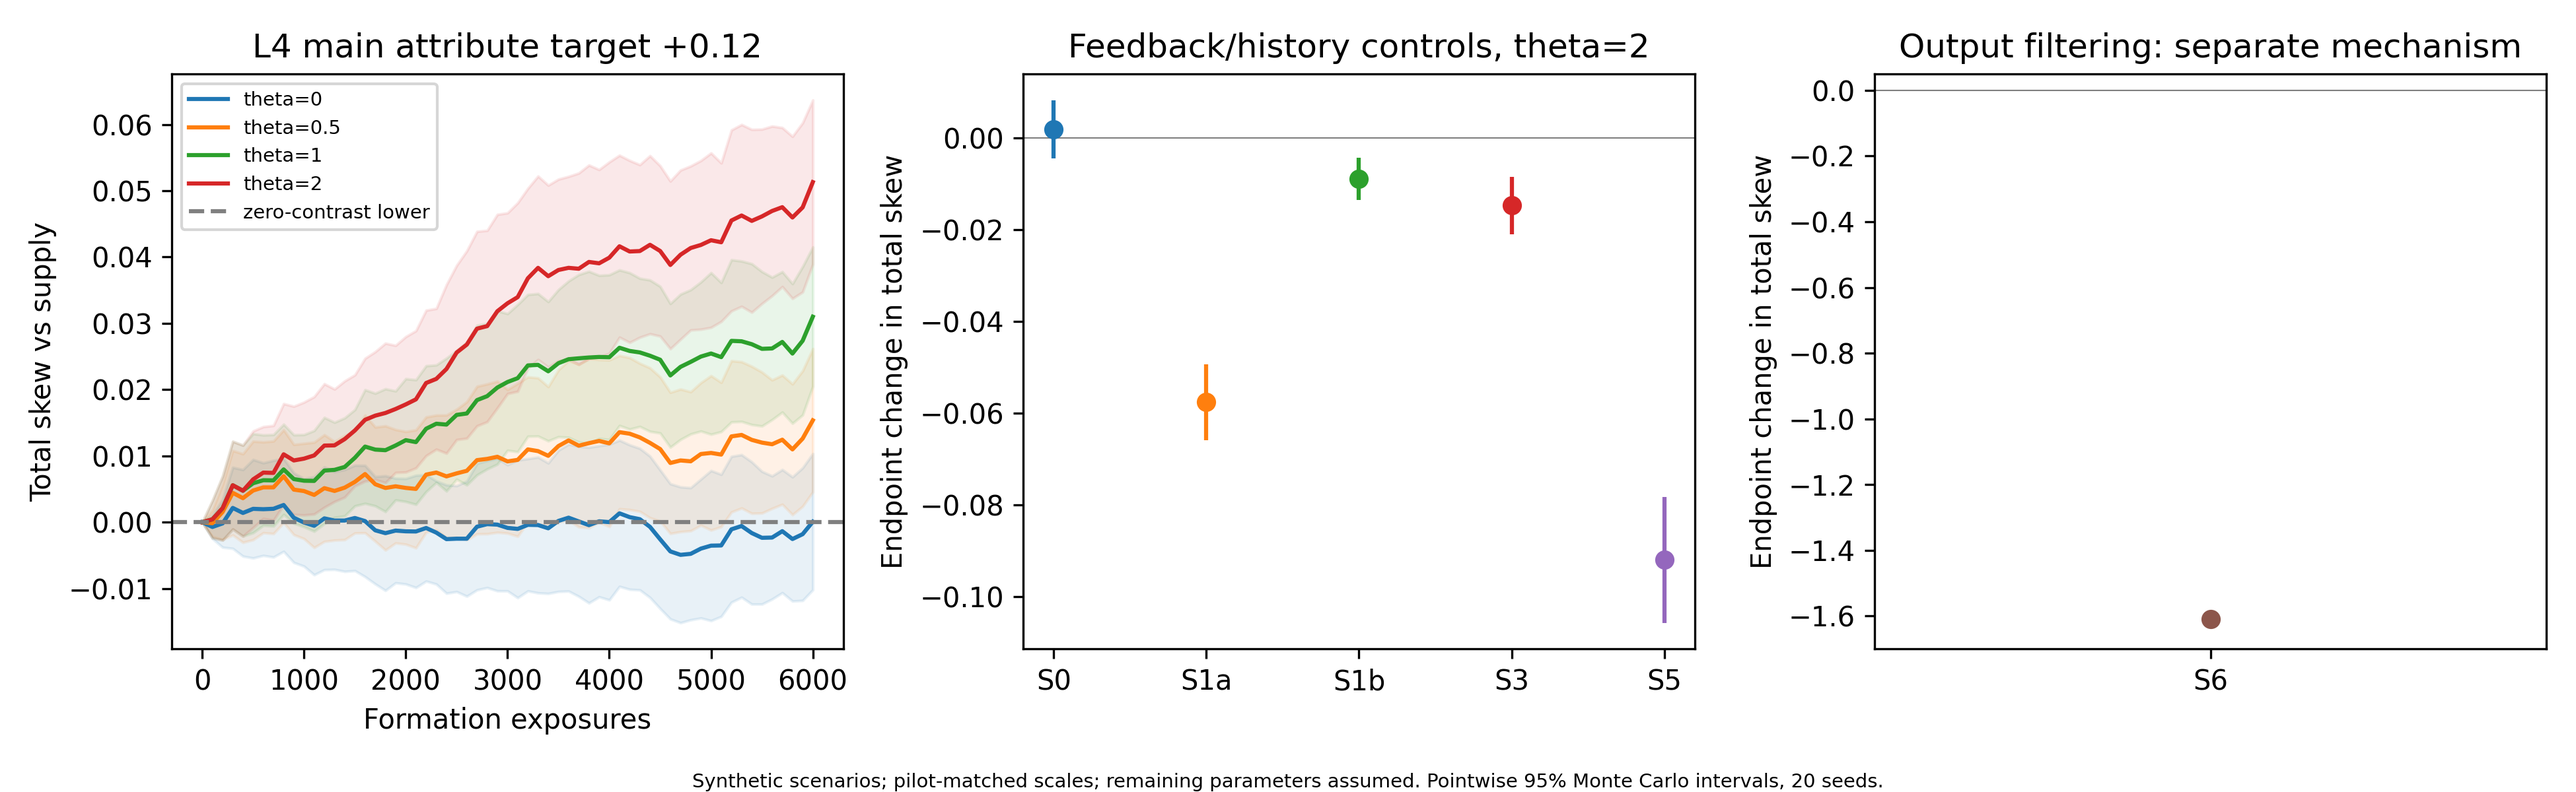
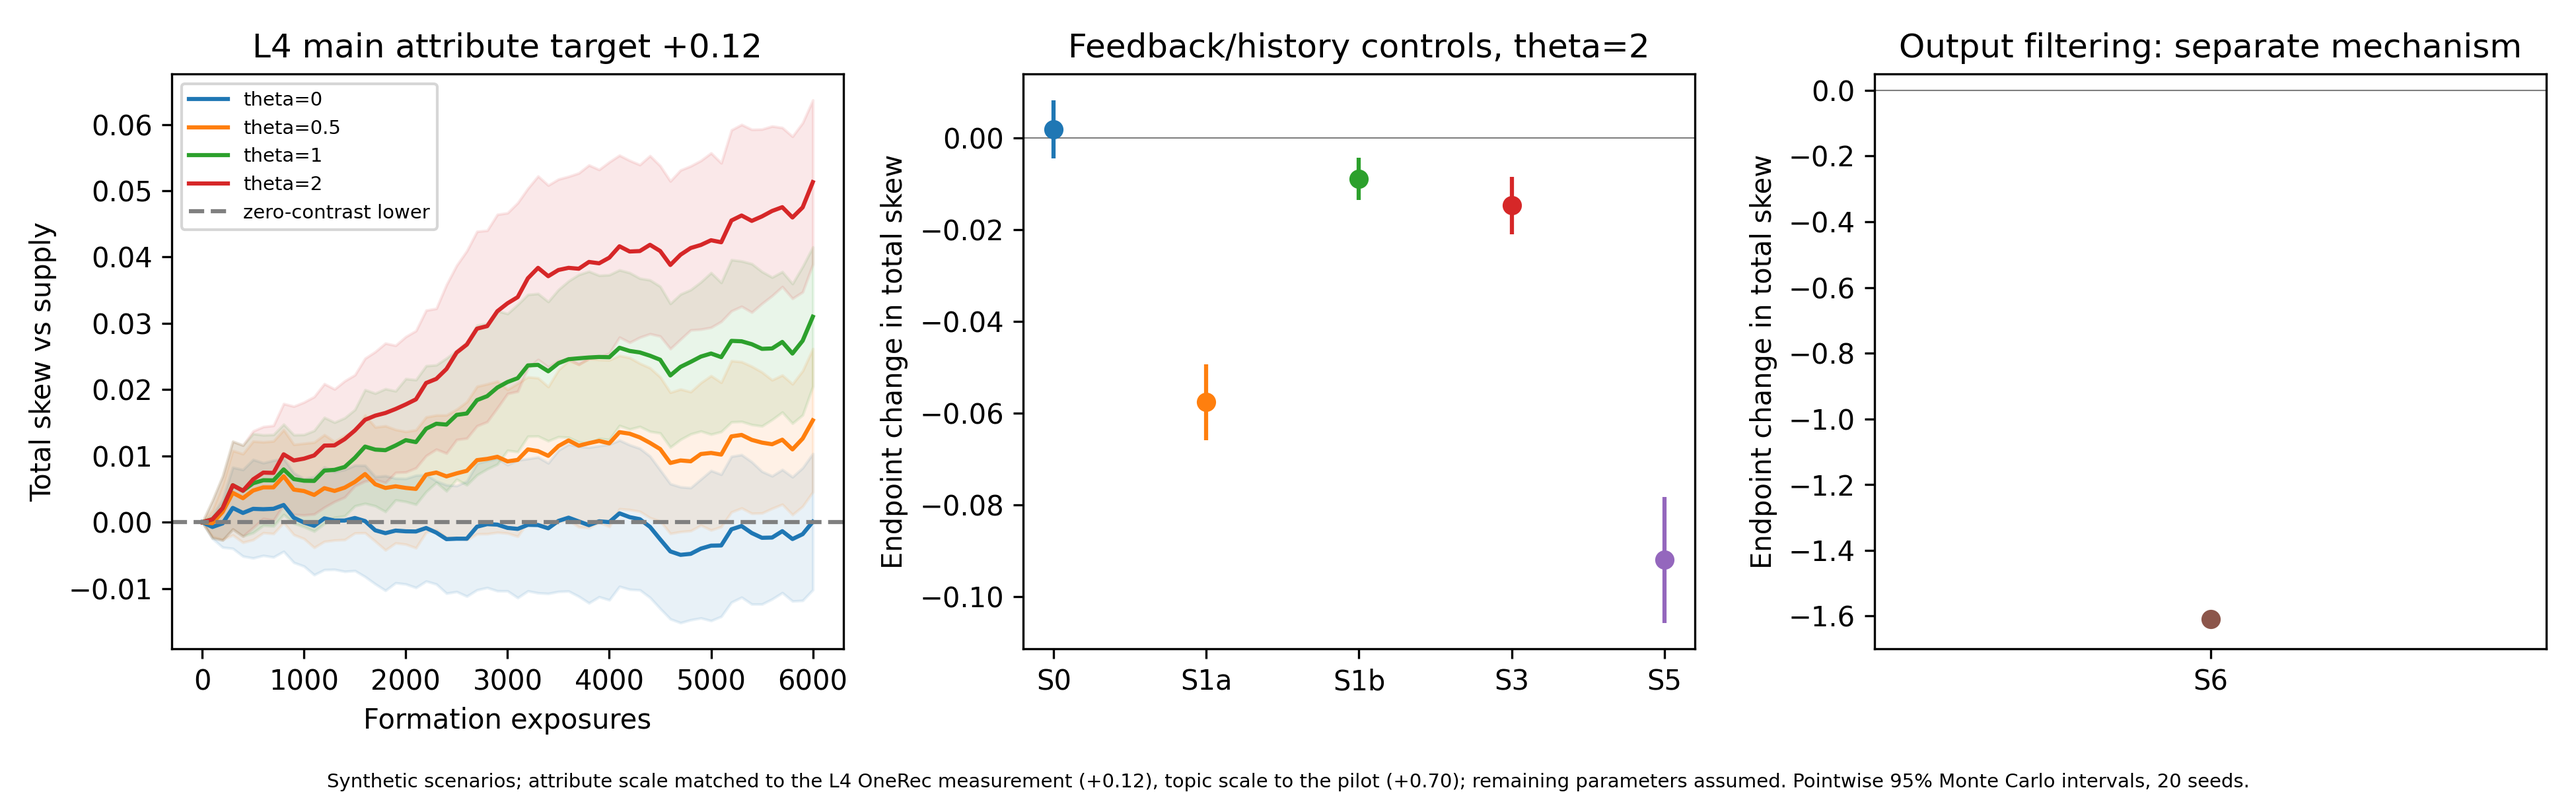
Fix Figure 5.1 footnote (L4-matched attribute scale) and verify section 5.2 numbers
The shared figure helper gains an optional footnote whose default is unchanged, so the
upper-scenario figures keep theirs. Rerunning l4_main.py reproduces the committed results
(max difference 2e-17), so the data files are left as they were.

Claude-Session: https://claude.ai/code/session_01M8HfKmEQJqJL5ZQudirT18

Changed region(s): [[0.1241, 0.9558, 0.8687, 1.0]]

diff --git a/analysis/v6_simulation/l4_main.py b/analysis/v6_simulation/l4_main.py
@@ -88,7 +88,8 @@ def run():
     axes[1].axhline(0,color='grey',lw=.5)
     axes[2].set(xticks=[0],xticklabels=['S6'],ylabel='Endpoint change in total skew',title='Output filtering: separate mechanism',ylim=(-1.7,.05))
     axes[2].axhline(0,color='grey',lw=.5)
-    fig('l4_main',details,['l4_main.py','calibrated_model.py','calibrated_run.py','revised_common.py'])
+    fig('l4_main',details,['l4_main.py','calibrated_model.py','calibrated_run.py','revised_common.py'],
+        note='Synthetic scenarios; attribute scale matched to the L4 OneRec measurement (+0.12), topic scale to the pilot (+0.70); remaining parameters assumed. Pointwise 95% Monte Carlo intervals, 20 seeds.')
     for r in cal:print(r)
     for r in summary:
         if r['theta']==2 and ((r['scenario']=='L4_main' and r['step'] in (FORM,ACTIVE)) or (r['scenario']=='zero_lower' and r['strategy']=='formation')):print(r)

diff --git a/analysis/v6_simulation/revised_common.py b/analysis/v6_simulation/revised_common.py
@@ -26,8 +26,8 @@ def meta(name,details,scripts):
         (BASE/folder/f'{name}.meta.json').write_text(json.dumps(data,indent=2),encoding='utf8')
 
 
-def fig(name,details,scripts):
-    plt.gcf().text(.5,.006,'Synthetic scenarios; pilot-matched scales; remaining parameters assumed. Pointwise 95% Monte Carlo intervals, 20 seeds.',ha='center',fontsize=7)
+def fig(name,details,scripts,note='Synthetic scenarios; pilot-matched scales; remaining parameters assumed. Pointwise 95% Monte Carlo intervals, 20 seeds.'):
+    plt.gcf().text(.5,.006,note,ha='center',fontsize=7)
     plt.tight_layout(rect=(0,.035,1,1))
     (BASE/'figures').mkdir(exist_ok=True)
     for ext in ('png','pdf'): plt.savefig(BASE/'figures'/f'{name}.{ext}',dpi=300)

diff --git a/report/ai_use_log.md b/report/ai_use_log.md
@@ -160,3 +160,4 @@
 - 确切提示词：`analysis/v6/deepseek_label.py`（`BU_TEMPLATE` 等）、`analysis/v6_annotation/prompt_v0`–`prompt_v2.py` 中的系统提示与模板；v2 与跨大类提示词原文见附录 A。
 - 输出如何使用：作为标签，用模型间一致性估计质量；不当作人工金标准。
 - 整合（同一会话）：确切提示词为"继续"和"ruicong的在改，你继续完成你的工作吧"。Claude 编写 `report/build_report.sh` 合成全文 PDF；压缩第 5.1–5.3 节（数字不变，5.2–5.3 为 Xu Ruicong 的部分，已告知其核对），把上限情境的图移入附录 B；按 #27、#28、#29 的结果同步摘要、第 4.4 节表注、第 5 节、第 6 节图注、第 7 节和第 8、10 节；编写并运行 `analysis/v6/retry_invalid.py`、`enrich_exposures.py`。输出如何使用：待 Li Yitong 通读后采用。
+- 代 Xu Ruicong 收尾（同一会话）：确切提示词为"你直接把ruicong的做掉吧，她不太方便"。Claude 给 `revised_common.fig` 加上可选脚注参数（默认值不变，上限情境的图不受影响），在 `l4_main.py` 中把图 5.1 的脚注改为"属性尺度匹配 L4 实测 +0.12、话题尺度匹配试点 +0.70"，重跑 `l4_main.py`（结果与已提交文件相同，最大差 2×10⁻¹⁷，数据文件保持原样）；对照 `l4_main_summary.csv` 与 `l4_main_calibration.csv` 核对第 5.2 节的全部主情境数字。输出如何使用：待 Li Yitong 通读后采用。
